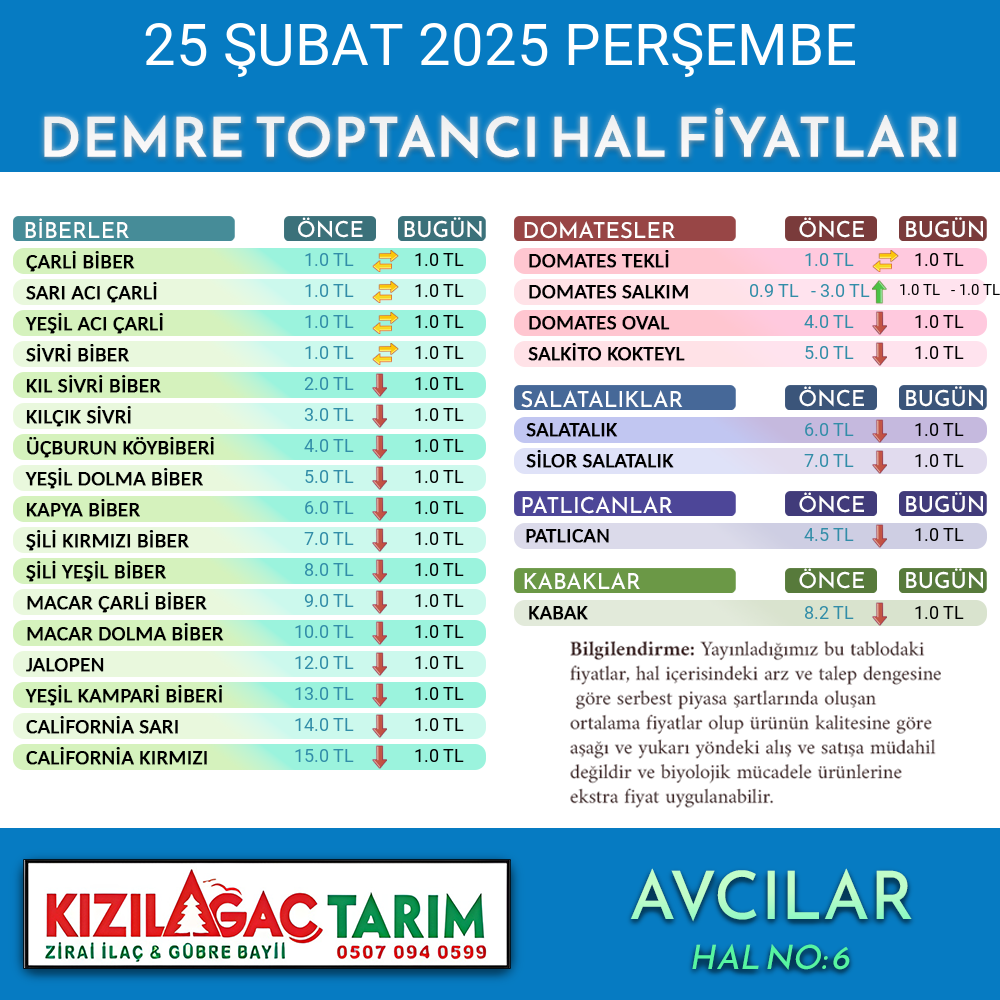
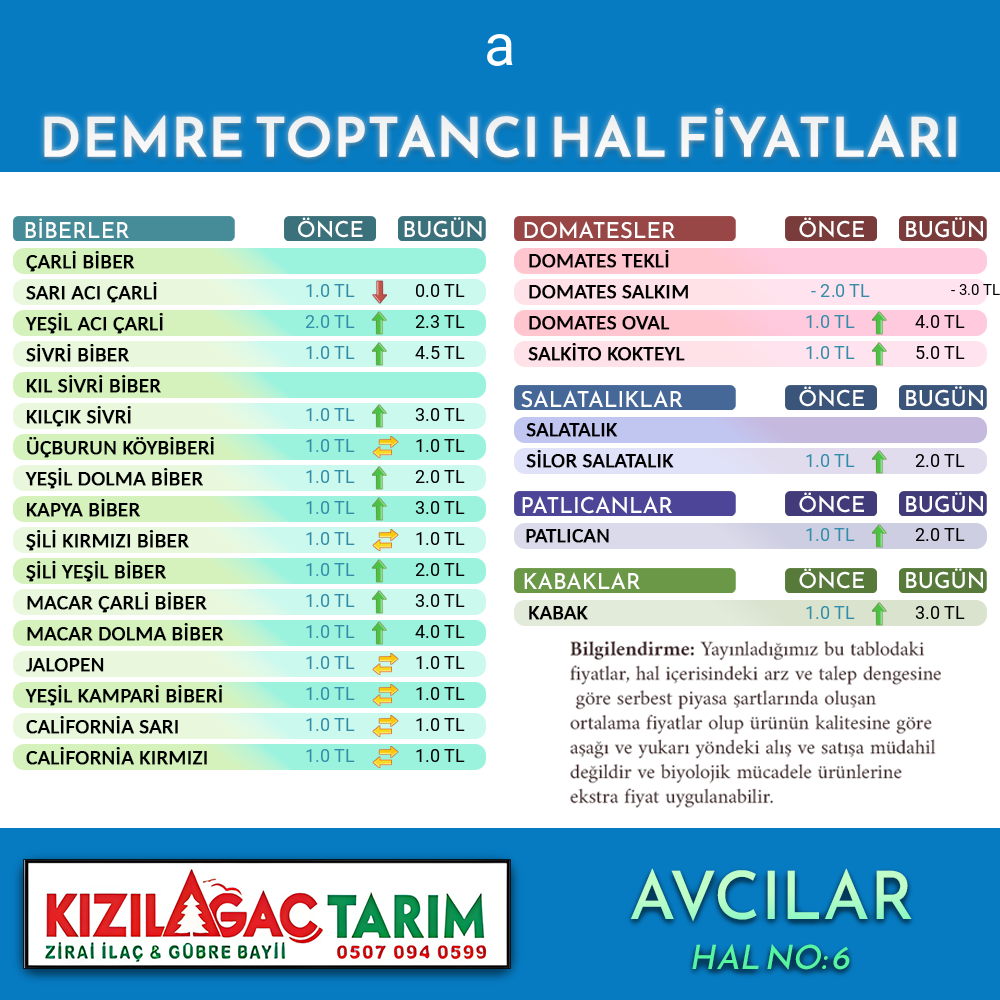
zero fix and information button

diff --git a/FiyatEditor/Main/templates/index.html b/FiyatEditor/Main/templates/index.html
@@ -2,6 +2,20 @@
 <!DOCTYPE html>
 {% block body %}
     <h1>Kızılağaç Tarım Piyasa Tablosu Oluşturucu</h1>
+    <button class="info" id="info" onclick="mesajGoster()">Bilgilendirme</button>
+    
+    <script>
+        function mesajGoster() {
+             Swal.fire({
+                title: 'Nasıl Kullanılır?',
+                text: 'Sebze meyve fiyat listesi görselleştirici program. Programı kullanmak için gerekli fiyatları (4.5) tarzı noktalı formatta yazmalısınız, boş geçilmesini istediğiniz ürünler için önceki ve sonraki fiyata 0 değerini giriniz. İletişim adresimiz: koraykll07@gmail.com ',
+                icon: 'question', // 'success', 'error', 'warning', 'info', 'question' olabilir
+                confirmButtonText: 'Tamam'
+            });
+        }
+    </script>
+
+
     <form action="{% url 'index_form' %}" method="POST">
         {% csrf_token %}
         Başlık Metni (Tarih): <input type="text" class="tarih" name="date" id="date" placeholder="Örn: 25 ŞUBAT 2025 PERŞEMBE" required>
@@ -88,7 +102,7 @@
         {% endfor %}
      </table>
      <br>
-     <input type="submit" value="Tabloyu Oluştur">
+     <input type="submit" class="button" value="Tabloyu Oluştur">
         </form>
         <br>
         <p>&copy; 2025 <a target="_blank" href="https://www.github.com/koray-killi">koray-killi</a> tarafından <b>Kızılağaç Tarım</b> için yapılmıştır.</p>

diff --git a/FiyatEditor/Main/static/FiyatEditor/css/style.css b/FiyatEditor/Main/static/FiyatEditor/css/style.css
@@ -18,6 +18,30 @@ p.title {
     margin: 50px;
 }
 
+.swal2-confirm {
+
+            /* padding: dikey boşluk yatay boşluk; */
+            /* Butonun içindeki metin ile kenarları arasındaki boşluğu artırır */
+            padding: 0.75rem 1.5rem !important; 
+            
+            /* font-size: Butonun içindeki yazının boyutunu büyütür */
+            font-size: 1.1rem !important; 
+        }
+
+        /* Eğer "İptal" (Cancel) butonunu da büyütmek isterseniz */
+
+.info {
+    width: 20%;
+    height: min-content;
+    border: 1px solid black;
+    border-radius: 2%;
+    font-size: medium;
+}
+
+button:hover {
+    background-color: #45a049;
+} 
+
 
 .container {
     border: 3px solid black;
@@ -71,7 +95,7 @@ input[type="submit"] {
     border-radius: 5px; /* Kenarları yuvarlatma */
     cursor: pointer; /* Üzerine gelince el işareti */
 }
-button{
+.button{
     border: 3px solid black;
     border-radius: 30px;
     font-family: "Roboto Condensed";
@@ -88,7 +112,7 @@ button{
     border-radius: 5px; /* Kenarları yuvarlatma */
     cursor: pointer; /* Üzerine gelince el işareti */
 }
-button.indir{
+.button.indir{
     border: 3px solid black;
     border-radius: 30px;
     font-family: "Roboto Condensed";

diff --git a/FiyatEditor/Main/templates/base.html b/FiyatEditor/Main/templates/base.html
@@ -9,6 +9,7 @@
     <link rel="stylesheet" href="{% static 'FiyatEditor/css/style.css' %}">
     <title>Demre Toptancı Hal Fiyat Editörü</title>
     <link rel="preconnect" href="https://fonts.googleapis.com">
+    <script src="https://cdn.jsdelivr.net/npm/sweetalert2@11"></script>
 <link rel="preconnect" href="https://fonts.gstatic.com" crossorigin>
 <link href="https://cdn.jsdelivr.net/npm/bootstrap@5.3.6/dist/css/bootstrap.min.css" rel="stylesheet" integrity="sha384-4Q6Gf2aSP4eDXB8Miphtr37CMZZQ5oXLH2yaXMJ2w8e2ZtHTl7GptT4jmndRuHDT" crossorigin="anonymous">
 <link href="https://fonts.googleapis.com/css2?family=Roboto+Condensed:ital,wght@0,100..900;1,100..900&family=Rubik:ital,wght@0,300..900;1,300..900&display=swap" rel="stylesheet">

diff --git a/FiyatEditor/Main/templates/success.html b/FiyatEditor/Main/templates/success.html
@@ -6,7 +6,7 @@
     <br>
     <br>
     <br>
-    <a href="../static/yazili_resim.png" download="fiyat_tablosu.png"><button class="indir">Resmi İndir</button></a>
+    <a href="../static/yazili_resim.png" download="fiyat_tablosu.png"><button class="button indir">Resmi İndir</button></a>
     <br><br><a href="/">Ana sayfaya dön</a>
 </form>
 {% endblock %}

diff --git a/FiyatEditor/Main/utils.py b/FiyatEditor/Main/utils.py
@@ -46,6 +46,9 @@ class ImageCreation():
         # The method that easily gets the data from the lists and drawing this data as text between desired spaces.
         def draw_table(start_x,start_y,desired_list,color,font,is_yesterday,line=0,lineadder=31,prefix="",suffix=" TL",skip_index=None,ex_args=None,ex_blank=None,font_size=None):
             for selected_object in desired_list:
+                if selected_object.yesterday_price == 0 and selected_object.today_price == 0:
+                    line+=lineadder
+                    continue
                 # Exception Handling
                 if desired_list.index(selected_object) == skip_index:
                     continue
